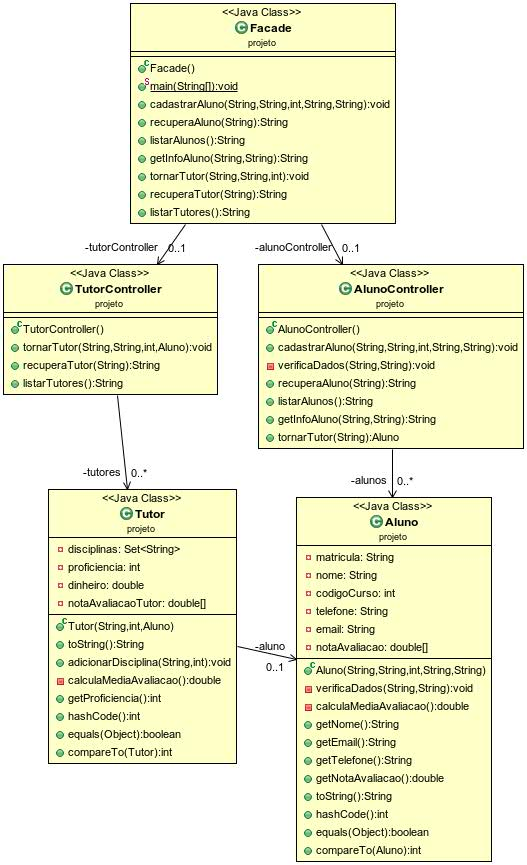
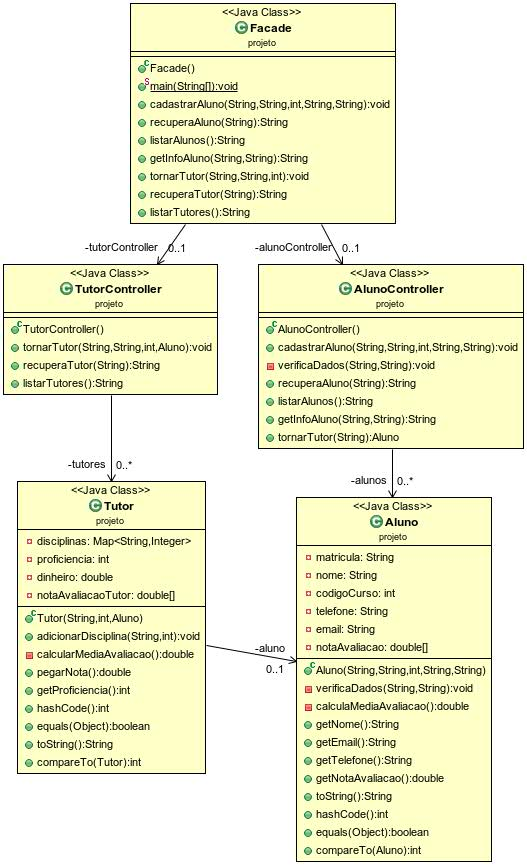
Mudança da representação de Disciplinas num Tutor por um Mapa e início da documentação

Changed region(s): [[0.0304, 0.4682, 0.5769, 0.9052]]

diff --git a/src/projeto/Tutor.java b/src/projeto/Tutor.java
@@ -1,47 +1,46 @@
 package projeto;
 
-import java.util.HashSet;
-import java.util.Set;
+import java.util.HashMap;
+import java.util.Map;
 
 public class Tutor implements Comparable<Tutor>{
 
 	private Aluno aluno;
-	private Set<String> disciplinas;
+	private Map<String, Integer> disciplinas;
 	private int proficiencia;
 	private double dinheiro;
 	private double[] notaAvaliacaoTutor;
 	
 	public Tutor(String disciplina, int proficiencia, Aluno aluno) {
-		this.disciplinas = new HashSet<String>();
-		this.disciplinas.add(disciplina);
+		this.disciplinas = new HashMap<String, Integer>();
+		this.disciplinas.put(disciplina, proficiencia);
 		this.proficiencia = proficiencia;
 		this.aluno = aluno;
 		this.dinheiro = 0;
 		this.notaAvaliacaoTutor = new double[] {4.0};
 	}
 	
-	public String toString() {
-		return this.aluno.toString();
-		
-	}
-	
 	public void adicionarDisciplina(String disciplina, int proficiencia) {
-		if (this.disciplinas.contains(disciplina)) {
+		if (this.disciplinas.containsKey(disciplina)) {
 			throw new IllegalArgumentException("Erro na definicao de papel: Ja eh tutor dessa disciplina");
 		}
-		this.disciplinas.add(disciplina);
+		this.disciplinas.put(disciplina, proficiencia);
 	}
 	
 	/**
 	 * Método que calcula a média das avaliações do Tutor.
 	 * @return double com o valor da média
 	 */
-	private double calculaMediaAvaliacao() {
+	private double calcularMediaAvaliacao() {
 		double soma = 0;
 		for (int i = 0; i < this.notaAvaliacaoTutor.length; i++) {
 			soma += this.notaAvaliacaoTutor[i];
 		}
 		return soma/this.notaAvaliacaoTutor.length;
+	}
+	
+	public double pegarNota() {
+		return this.calcularMediaAvaliacao();
 	}
 
 	public int getProficiencia() {
@@ -71,6 +70,12 @@ public class Tutor implements Comparable<Tutor>{
 		} else if (!aluno.equals(other.aluno))
 			return false;
 		return true;
+	}
+	
+	@Override
+	public String toString() {
+		return this.aluno.toString();
+		
 	}
 
 	public int compareTo(Tutor o) {

diff --git a/src/projeto/Facade.java b/src/projeto/Facade.java
@@ -2,6 +2,14 @@ package projeto;
 
 import easyaccept.EasyAccept;
 
+/**
+ * Classe de Fachada para os Controllers do QUEM ME AJUDA.
+ * @author Lucas Cordeiro Brasil
+ * @author Mateus Queiroz Cunha
+ * @author Joeberth Augusto Cordeiro de Souza
+ * @author Vitor Alves Correia Lima de Aquino
+ *
+ */
 public class Facade {
 
 	private AlunoController alunoController;

diff --git a/src/projeto/AlunoController.java b/src/projeto/AlunoController.java
@@ -8,9 +8,11 @@ import java.util.Map;
 
 /**
  * Classe que representa o Controller de Alunos do QUEM ME AJUDA.
+ * 
  * @author Lucas Cordeiro Brasil
- * @author Maeteus Queiroz Cunha
- *
+ * @author Mateus Queiroz Cunha
+ * @author Joeberth Augusto Cordeiro de Souza
+ * @author Vitor Alves Correia Lima de Aquino
  */
 public class AlunoController {
 

diff --git a/src/projeto/Aluno.java b/src/projeto/Aluno.java
@@ -5,7 +5,8 @@ package projeto;
  * 
  * @author Lucas Cordeiro Brasil
  * @author Mateus Queiroz Cunha
- *
+ * @author Joeberth Augusto Cordeiro de Souza
+ * @author Vitor Alves Correia Lima de Aquino
  */
 public class Aluno implements Comparable<Aluno>{
 
